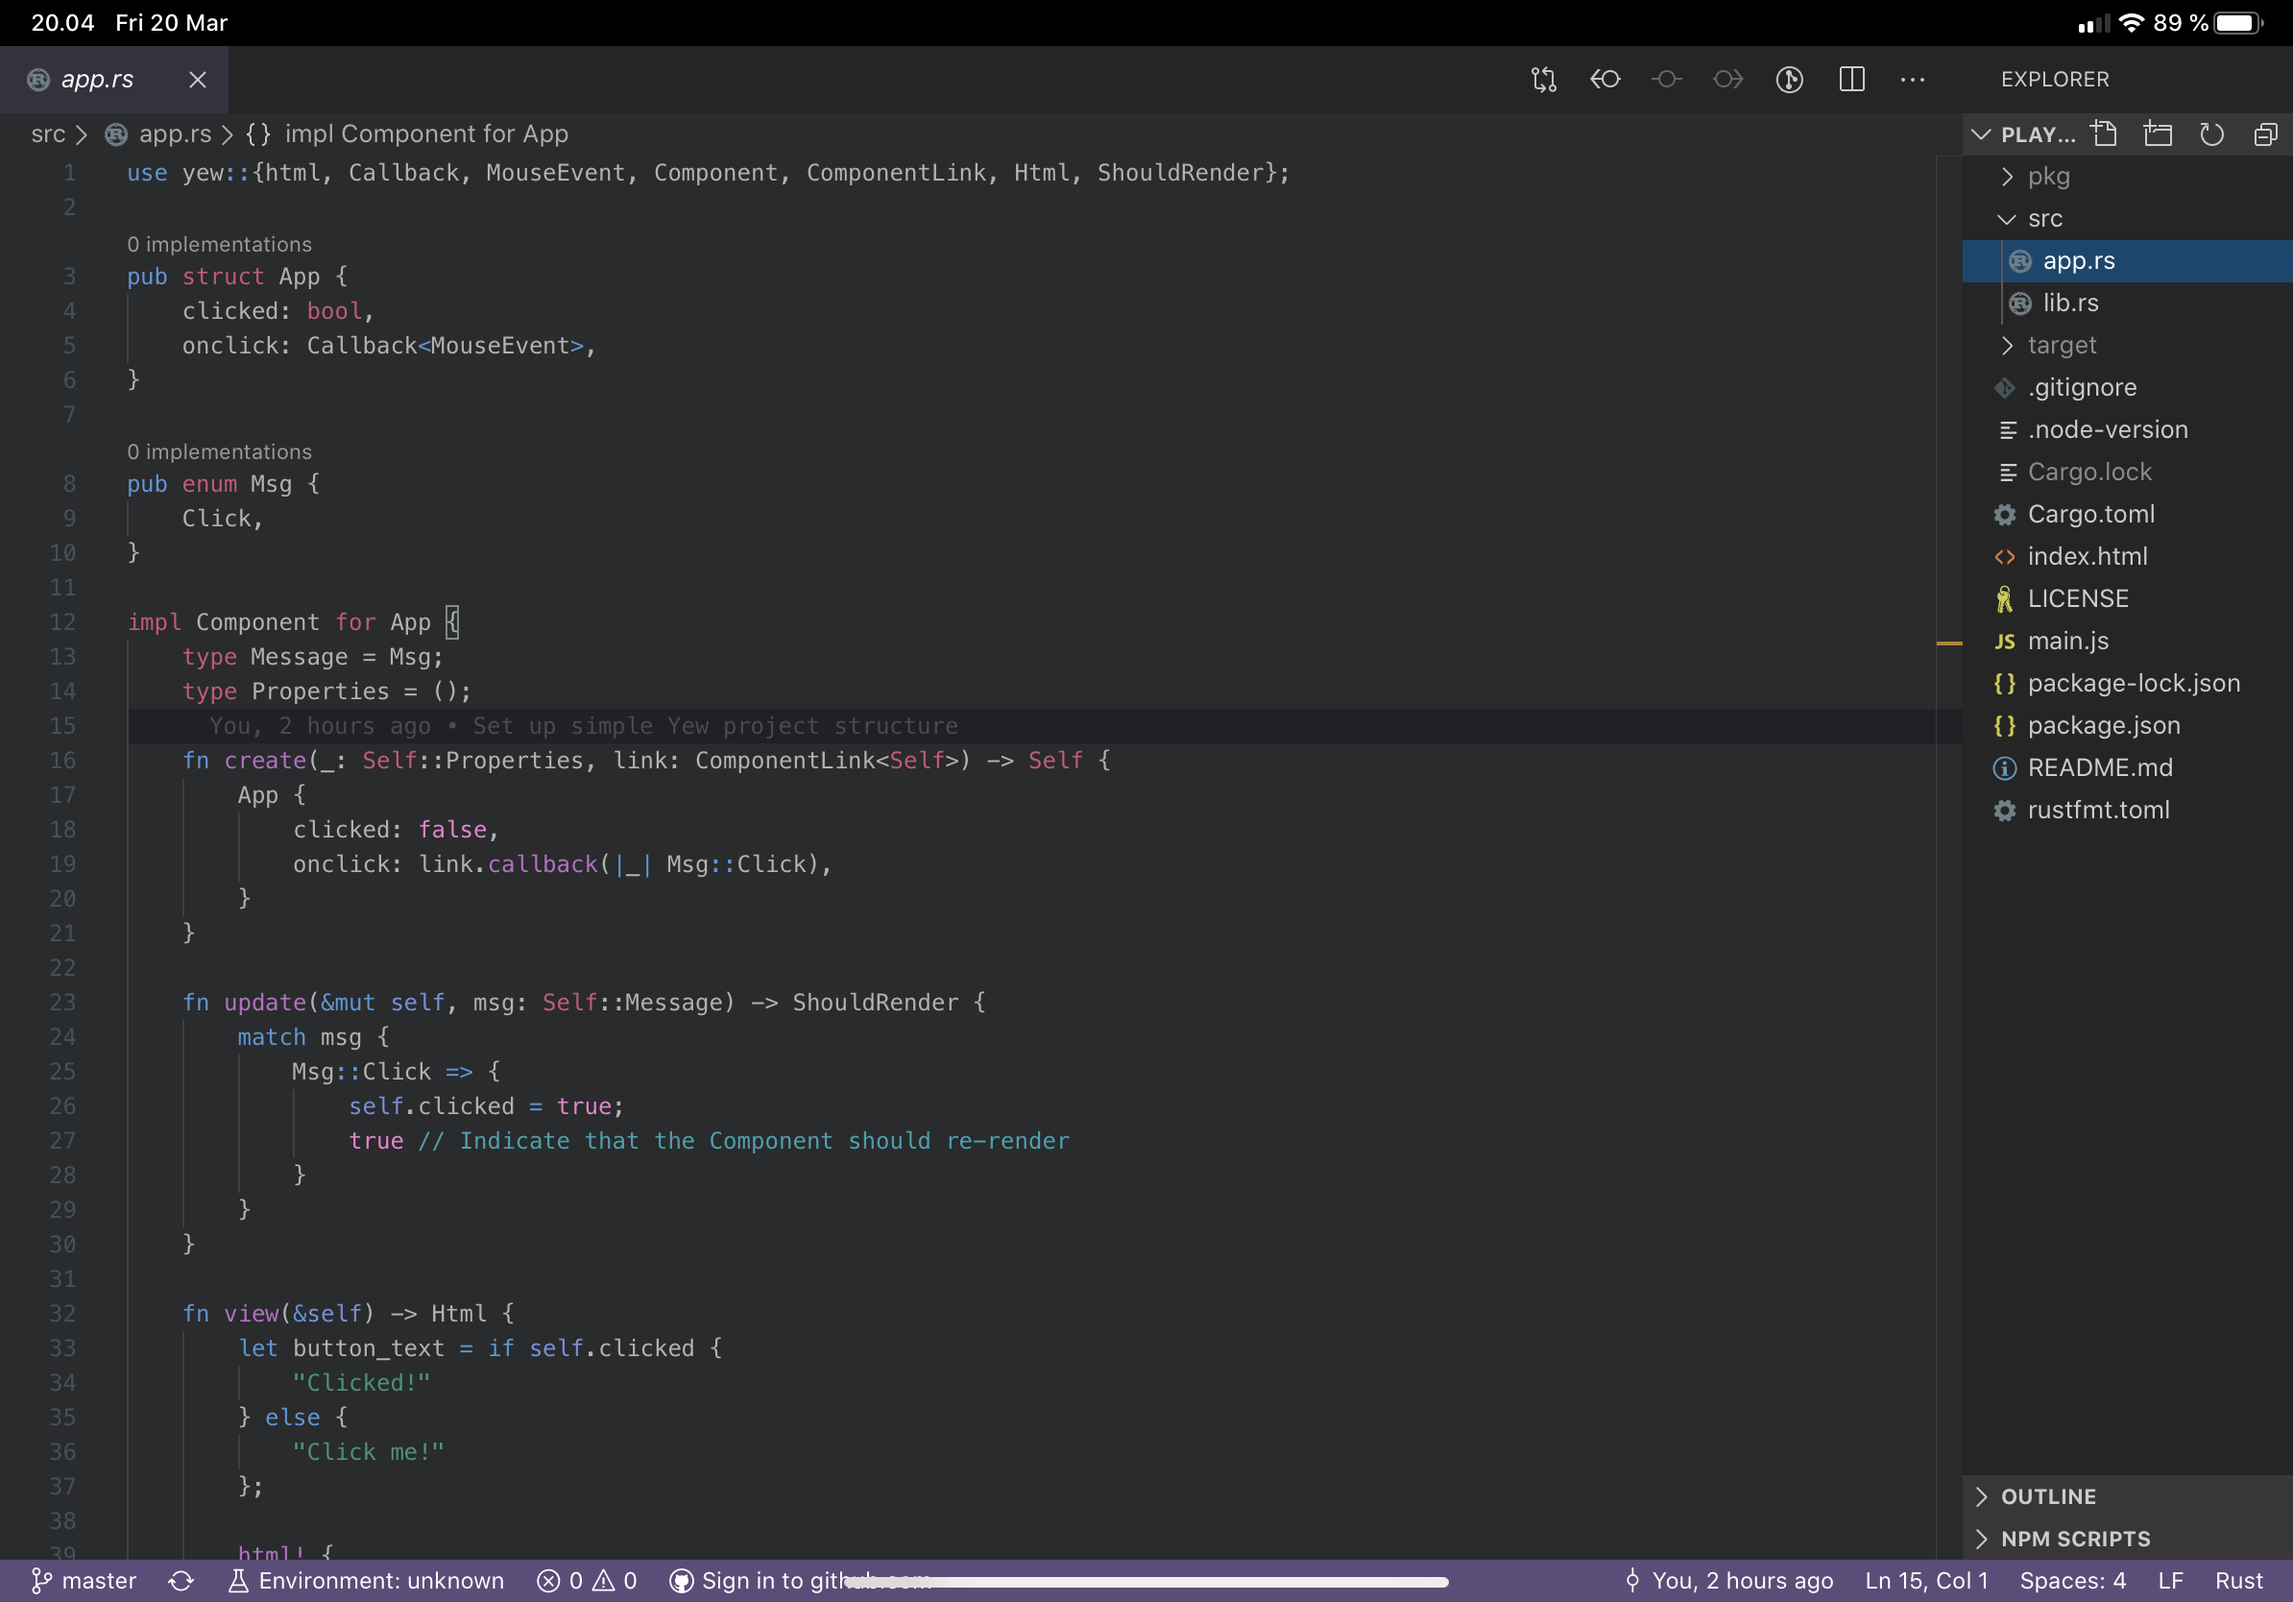
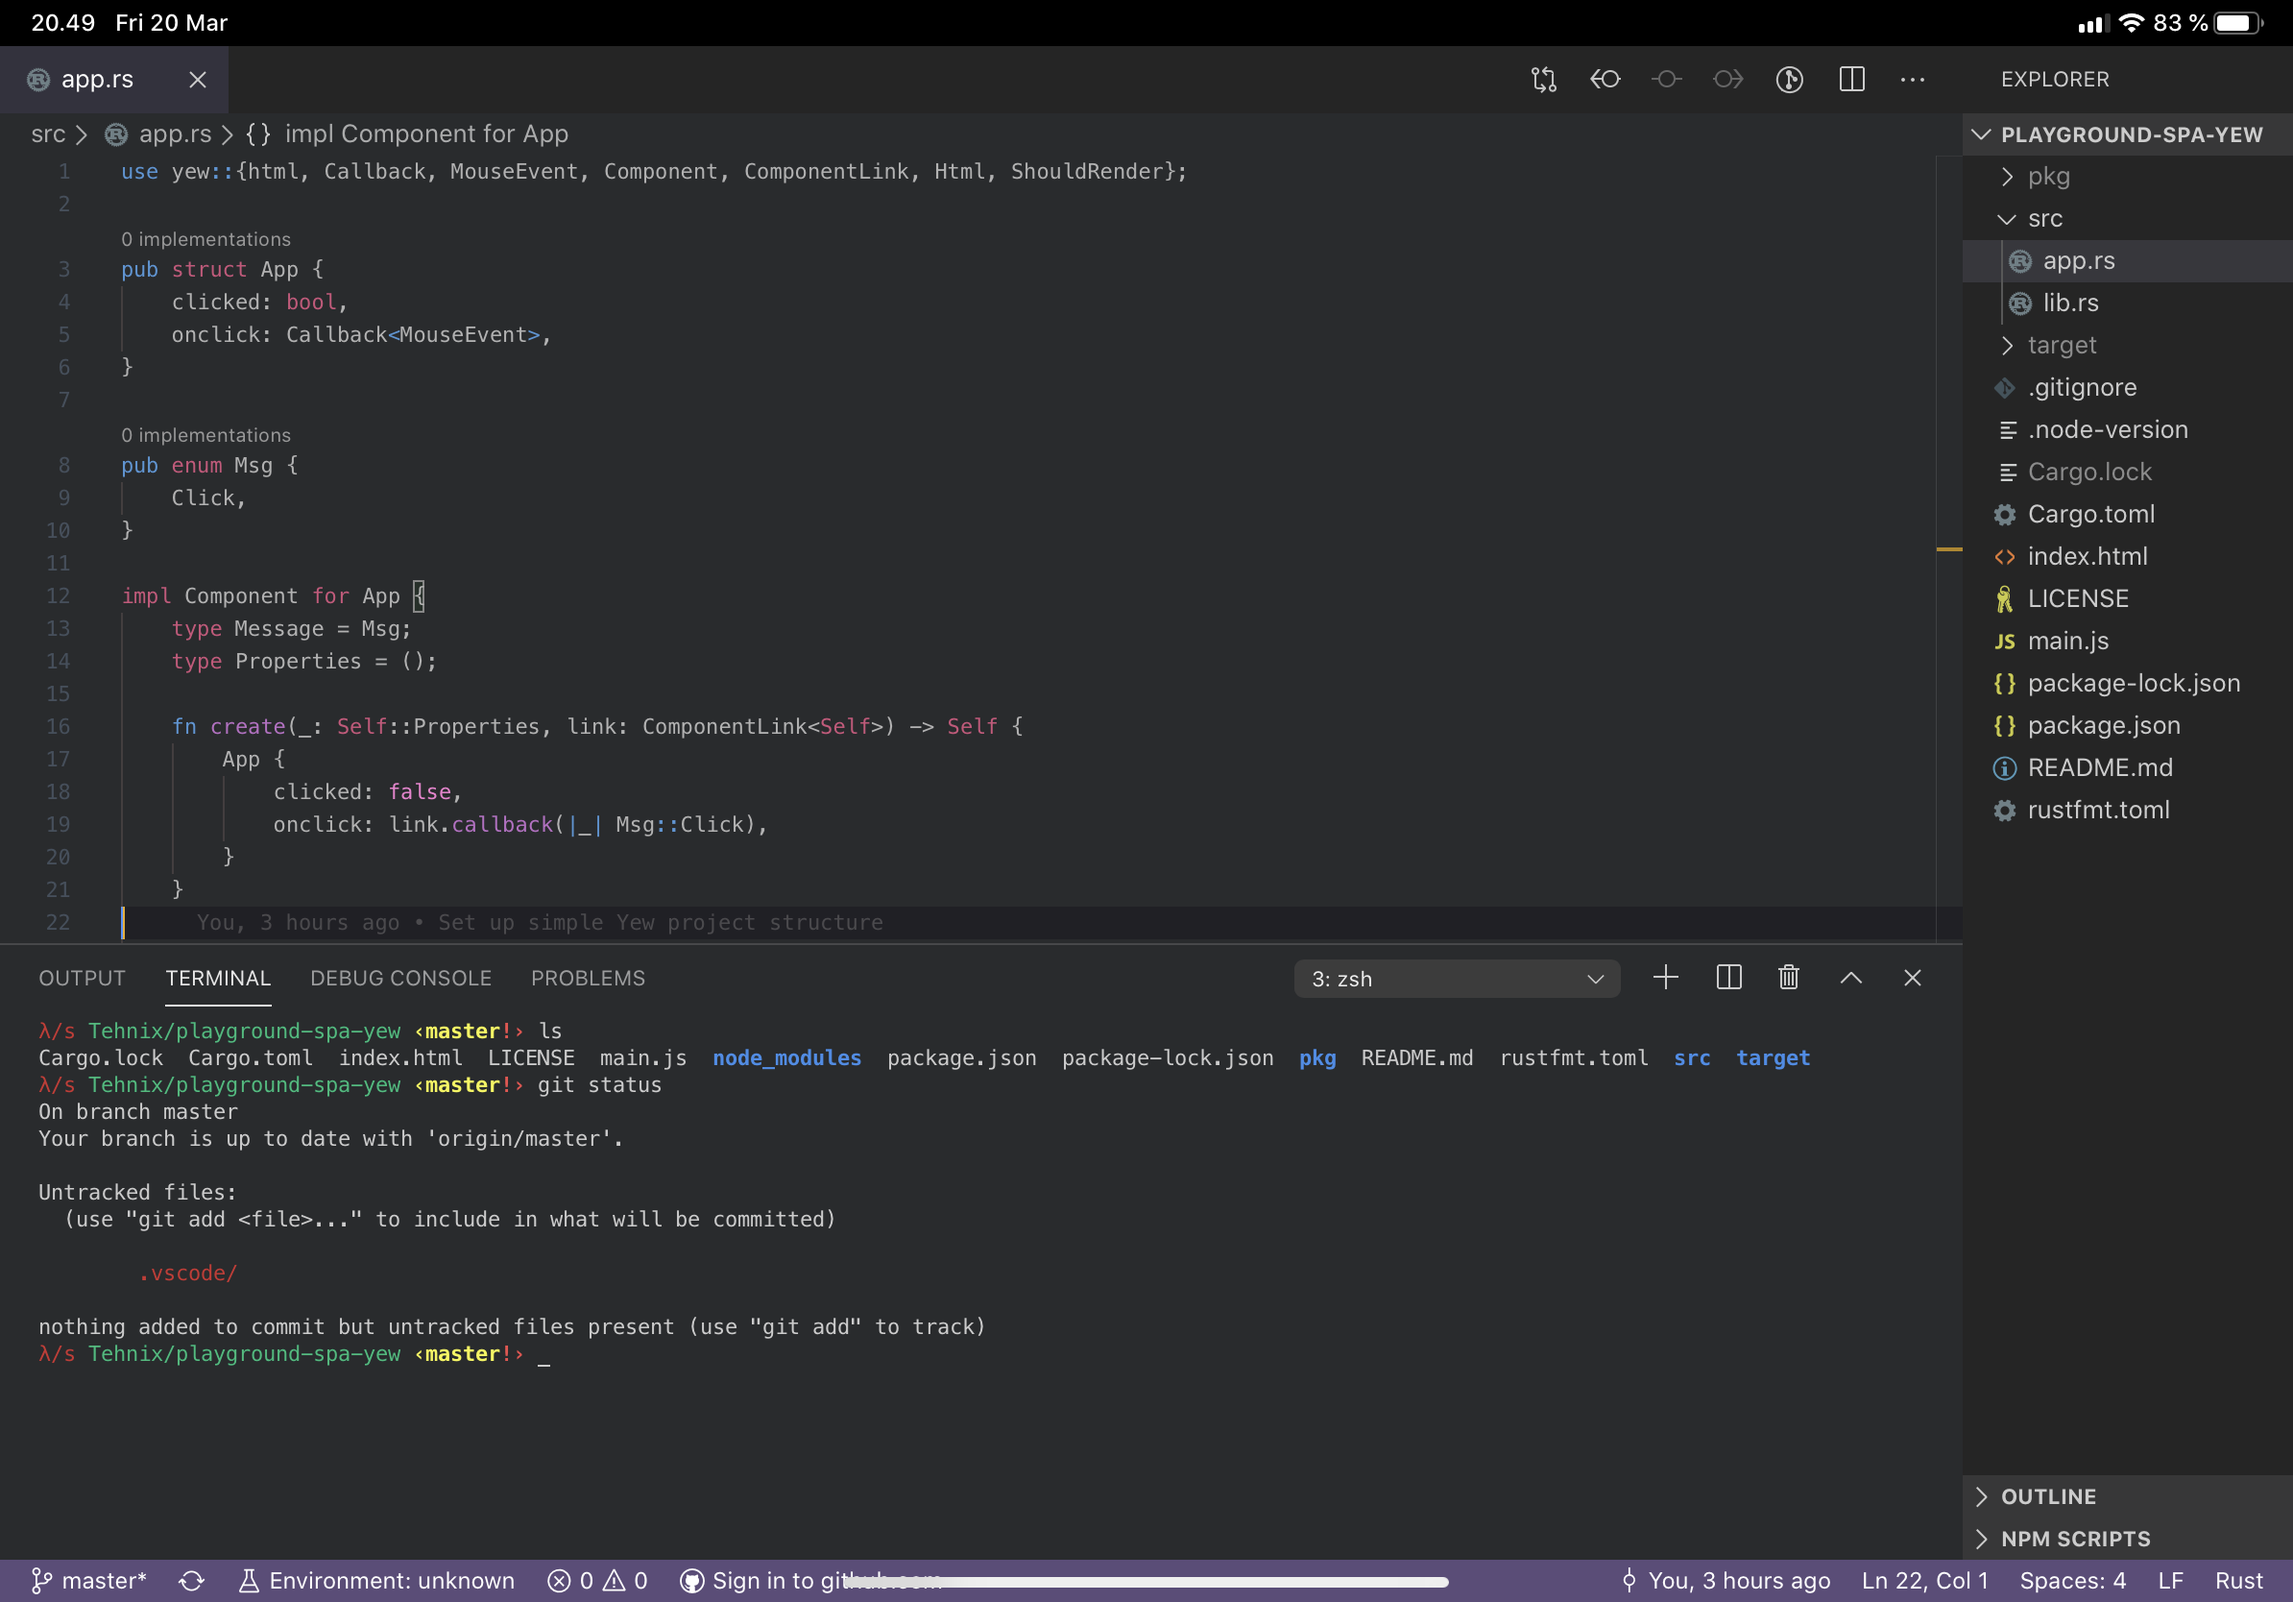
Update VS Code picture and clean up writing

diff --git a/posts/2020-03-20-Visual-Studio-Code-on-iPad.md b/posts/2020-03-20-Visual-Studio-Code-on-iPad.md
@@ -13,9 +13,9 @@ With [Apple increasing their focus](https://www.apple.com/newsroom/2020/03/apple
 
 I rely heavily on command-line tools and language specific tools (rust-analyser, node, ghcide, etc) for my day-to-day programming, and my current setup features:
 
-- Blink with mosh to a remote server
-- Neovim and [wemux]() on the remote server
-- iSH to play around with very simple CLI needs locally on the iPad
+- [Blink](https://blink.sh) with mosh to a remote server.
+- Neovim and [wemux]() on the remote server.
+- [iSH](https://ish.app) to play around with very simple CLI needs locally on the iPad.
 
 On my computer I use Visual Studio Code, and its long been a wish to get that running somehow on my iPad. This is an attempt to make VS Code available on the iPad, under the restrictions that we have to deal with.
 
@@ -26,8 +26,6 @@ On my computer I use Visual Studio Code, and its long been a wish to get that ru
 
 ## Enter code-server
 [code-server](https://github.com/cdr/code-server) enables you to run VS Code on a remote server, and access it through a browser. While not ideal, this is at least one way to get VS Code onto an iPad.
-
-I'll assume you have a server running somewhere, that you intend to use for this setup.
 
 First, SSH into your server, so that we can setup `code-server`. We are going to download the latest release from GitHub, and set it up. Checkout the latest release at [https://github.com/cdr/code-server/releases](https://github.com/cdr/code-server/releases), and pick the asset for `linux_x86_64`,
 
@@ -65,7 +63,7 @@ Neat! 🙂
 ## Securing the setup for remote access
 So far `code-server` is only listening for local connections, but we'd like to be able to use it on the go, from a browser on the iPad. This means we have to do a little extra work to secure our setup.
 
-`code-server` covers how to do this [in their FAQ](https://github.com/cdr/code-server/blob/master/doc/FAQ.md#how-should-i-expose-code-server-to-the-internet), but skips the specific steps. Unfortunately, due to an issue with self-signed certificates on iOS, we cannot simply use these (see [code-serfer#1122](https://github.com/cdr/code-server/issues/1122)). Instead, we will opt for [letsencrypt](https://letsencrypt.org)!
+`code-server` covers how to do this [in their FAQ](https://github.com/cdr/code-server/blob/master/doc/FAQ.md#how-should-i-expose-code-server-to-the-internet), but skips the specific steps. Due to an issue with self-signed certificates on iOS, we cannot use these (see [code-serfer#1122](https://github.com/cdr/code-server/issues/1122)), so instead we will opt for [letsencrypt](https://letsencrypt.org)!
 
 <!--
 We'll set up a self-signed certificate. For the pass phrase, simply press enter to put a blank password on the key.
@@ -146,15 +144,16 @@ A login screen should appear. Use the password that the server printed, and you 
   <a href="/resources/images/visual-studio-on-ipad-code-file.png" target="_blank" rel="noopener noreferrer"><img src="/resources/images/visual-studio-on-ipad-code-file.thumbnail.png" loading="lazy" alt="Code file in Visual Studio Code on iPad" title="Code file in Visual Studio Code on iPad" /></a>
 </div>
 
+Note that we can even use the integrated terminal via the browser instance.
 
 ## Daemonizing the server
 Currently we need to manually start the server every time we reboot our server. Instead of this, we'd like the `code-server` to be managed as a system service.
 
 We'll do this by:
 
-- Start `code-server` with a fixed password
-- Setting up a script to start `code-server` in a `screen` instance
-- Letting `systemd` manage the start/stop of the service
+- Starting `code-server` with a fixed password.
+- Setting up a script to start `code-server` in a `screen` instance.
+- Letting `systemd` manage the start/stop of the service.
 
 **Passphrase**
 
